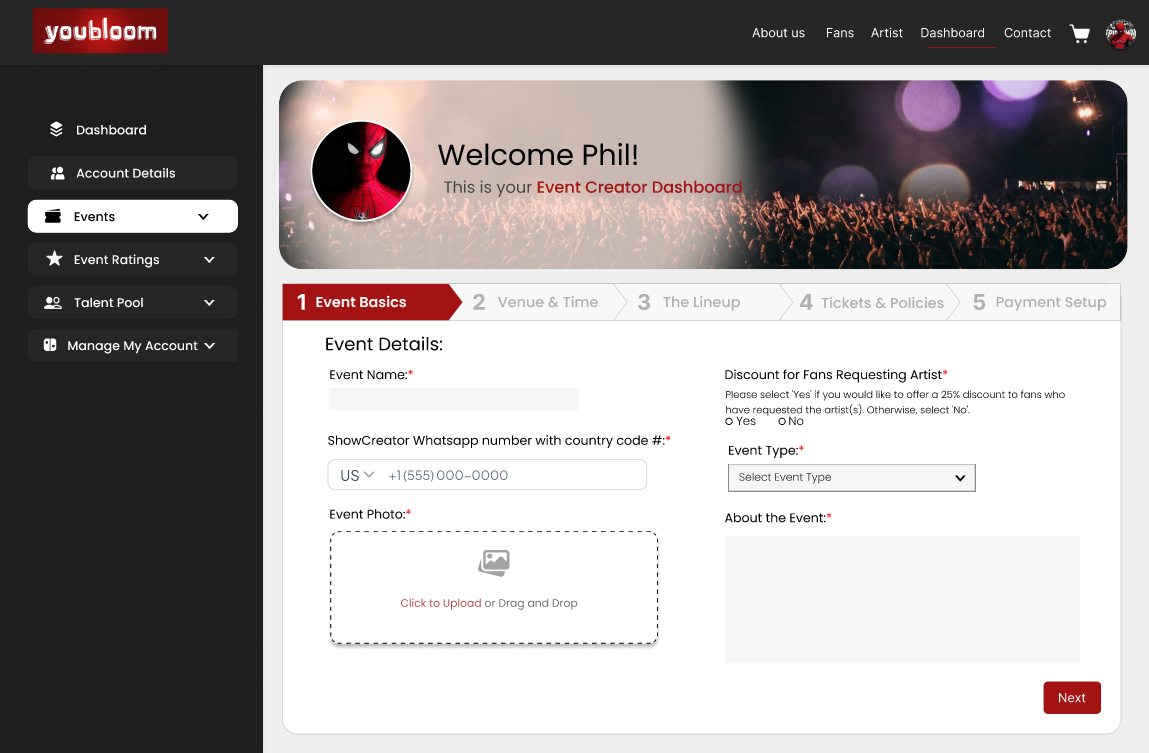
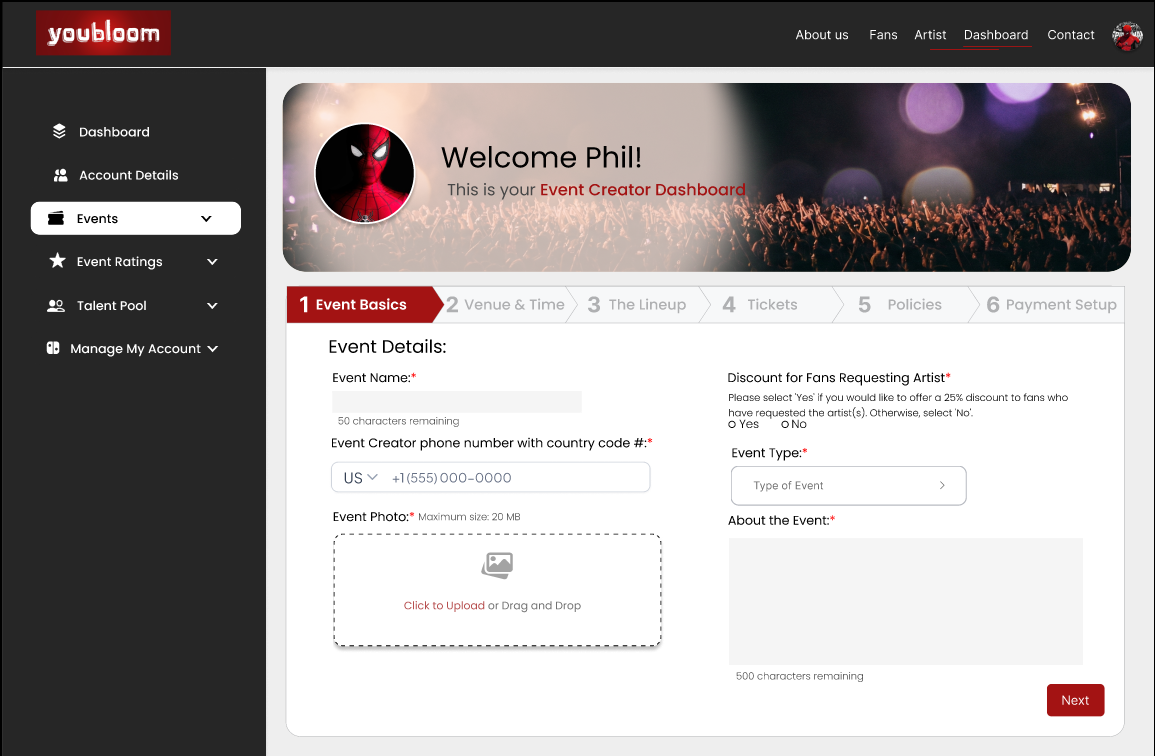
youbloom case study udpate

diff --git a/index.html b/index.html
@@ -132,11 +132,11 @@
               <h3 class="collapsible-trigger">UX/UI Designer (Dec 2025 - Present) <span class="collapsible-arrow"></span></h3>
               <div class="collapsible-content">
                 <ul class="work__list">
-                  <li>youbloom</li>
+                  <li>youbloom - Contract</li>
                 </ul>
-                <p>• Conduct UX audits and redesigns for the event dashboard, specifically targeting a 90% user activity core (show setup) to improve flow efficiency</p>
-                <p>• Reduce user drop-off rates by restructuring the event creation wizard, moving payment integrations to the final step to ensure a smoother conversion funnel.</p>
-                <p>• Design core website features using Figma, ensuring 100% accuracy in developer implementation during the platform's migration from WordPress to React.</p>
+                <p>• Spearheaded UX audits and dashboard redesigns targeting 90% of core user activities, directly enhancing flow efficiency for show setups.</p>
+                <p>• Optimized conversion funnels by re-architecting the event creation wizard and re-sequencing payment integrations to proactively reduce user drop-off.</p>
+                <p>• Architected design systems in Figma that ensured 100% implementation accuracy during a critical platform migration from WordPress to React.</p>
                 <p>• Creating detailed design specifications in Figma and working closely with developers to ensure accurate implementation.</p>
                 <p>• Participating in daily design reviews to iterate on concepts and align with business goals.</p>
                 <ul class="work__list">
@@ -147,14 +147,14 @@
           </div>
           <div class="work__box" data-aos="fade-up">
             <div class="work__text">
-              <h3 class="collapsible-trigger">Lead Product Designer (Part-time) (Oct 2025 - Present) <span class="collapsible-arrow"></span></h3>
+              <h3 class="collapsible-trigger">Lead Product Designer (Oct 2025 - Present) <span class="collapsible-arrow"></span></h3>
               <div class="collapsible-content">
                 <ul class="work__list">
-                  <li>ITAC, OSU</li>
+                  <li>ITAC, OSU - Part-Time</li>
                 </ul>
-                <p>• Direct a multi-disciplinary team of a Data Analyst and Developer to automate client onboarding, projected to save staff 5–8 hours per week in manual data entry.</p>
-                <p>• Lead the end-to-end design for the ITAC web portal, optimizing workflows for a user base of 500+ staff and clients while reducing design-to-dev handoff friction.</p>
-                <p>• Oversee AI-based tool development, translating complex ML capabilities into interfaces that have streamlined internal reporting processes by an estimated 20%.</p>
+                <p>• Orchestrated a cross-functional team of analysts and developers to automate client onboarding, projected to eliminate 5–8 hours of manual data entry per week.</p>
+                <p>• Deployed a centralized web portal for 500+ users, streamlining end-to-end workflows and drastically reducing design-to-dev handoff friction.</p>
+                <p>• Pivoted legacy assessment systems from fragmented spreadsheets into a unified UX architecture to manage the entire client lifecycle.</p>
                 <p>• Supporting daily lab operations and contributing to ongoing projects within an applied research environment.</p>
                 <ul class="work__list">
                   <li>Tools & Skills: Figma, User research, Ideation, Wireframing, Prototyping, Usability Study, Testing, Django, Project Management</li>
@@ -219,9 +219,9 @@
                 <ul class="work__list">
                   <li>PC Control Systems Pvt Ltd</li>
                 </ul>
-                <p>• Led the UX design process from conception to implementation, conducting user research to define requirements and creating wireframes and interactive prototypes to visualize solutions.</p>
-                <p>• Collaborated with engineers to implement front-end designs, using HTML/CSS/JS to ensure 100% cross-browser compatibility & reduce design-to-dev handoff time by 30%.</p>
-                <p>• Conducted usability testing and resolved critical interface bugs, which increased task completion rates by 25% and significantly simplified the user journey.</p>
+                <p>• Elevated task completion rates by 25% by executing data-driven usability testing and resolving critical interface friction points.</p>
+                <p>• Slashed handoff latency by 30% by building interactive prototypes and collaborating directly with engineering on HTML/ CSS/ JS frontend implementation.</p>
+                <p>• Standardized cross-browser compatibility to 100% across all web deployments, ensuring a seamless and accessible user journey.</p>
                 <ul class="work__list">
                   <li>Frontend: PHP, JavaScript, HTML, CSS, XML, User Experience Design Process</li>
                   <li>Backend: SQL, MongoDB</li>

diff --git a/youbloom.html b/youbloom.html
@@ -176,7 +176,7 @@
         </div>
 
         <div style="margin-bottom: 6rem;" data-aos="fade-up">
-           <h3 style="color: var(--accent-blue);">Solution D: The 5-Step Linear Wizard</h3>
+           <h3 style="color: var(--accent-blue);">Solution D: The 6-Step Linear Wizard</h3>
 
              <p><strong>The Problem:</strong> Creating an event involves complex logistics.</p>
 
@@ -186,7 +186,8 @@
                 <li><strong>Event Basics:</strong> Event Details & Category.</li>
                 <li><strong>Venue & Time: </strong> Venue & Time Selection</li>
                 <li><strong>The Lineup:</strong> Integrated Talent Discovery.</li>
-                <li><strong>Tickets & Policies: </strong> Ticketing & Policies of event.</li>
+                <li><strong>Tickets: </strong> Ticketing of event.</li>
+                <li><strong>Policies: </strong> Policies of event.</li>
                 <li><strong>Publish:</strong> Stripe Integration & Review, Launch.</li>
             </ol>
 
@@ -195,7 +196,7 @@
                 <img slot="first" src="./images/YouBloom_Wizard_Before.png" 
                      alt="Before: Single Page Form"
                      onerror="this.onerror=null; this.src='https://placehold.co/1000x600/333333/ffffff?text=BEFORE:+Single+Page+Form';">
-                <img slot="second" src="./images/YouBloom_Wizard_After.png" 
+                <img slot="second" src="./images/YouBloom_Wizard_After.png"
                      alt="After: 5-Step Wizard"
                      onerror="this.onerror=null; this.src='https://placehold.co/1000x600/00A9E0/ffffff?text=AFTER:+5-Step+Wizard';">
               </img-comparison-slider>
